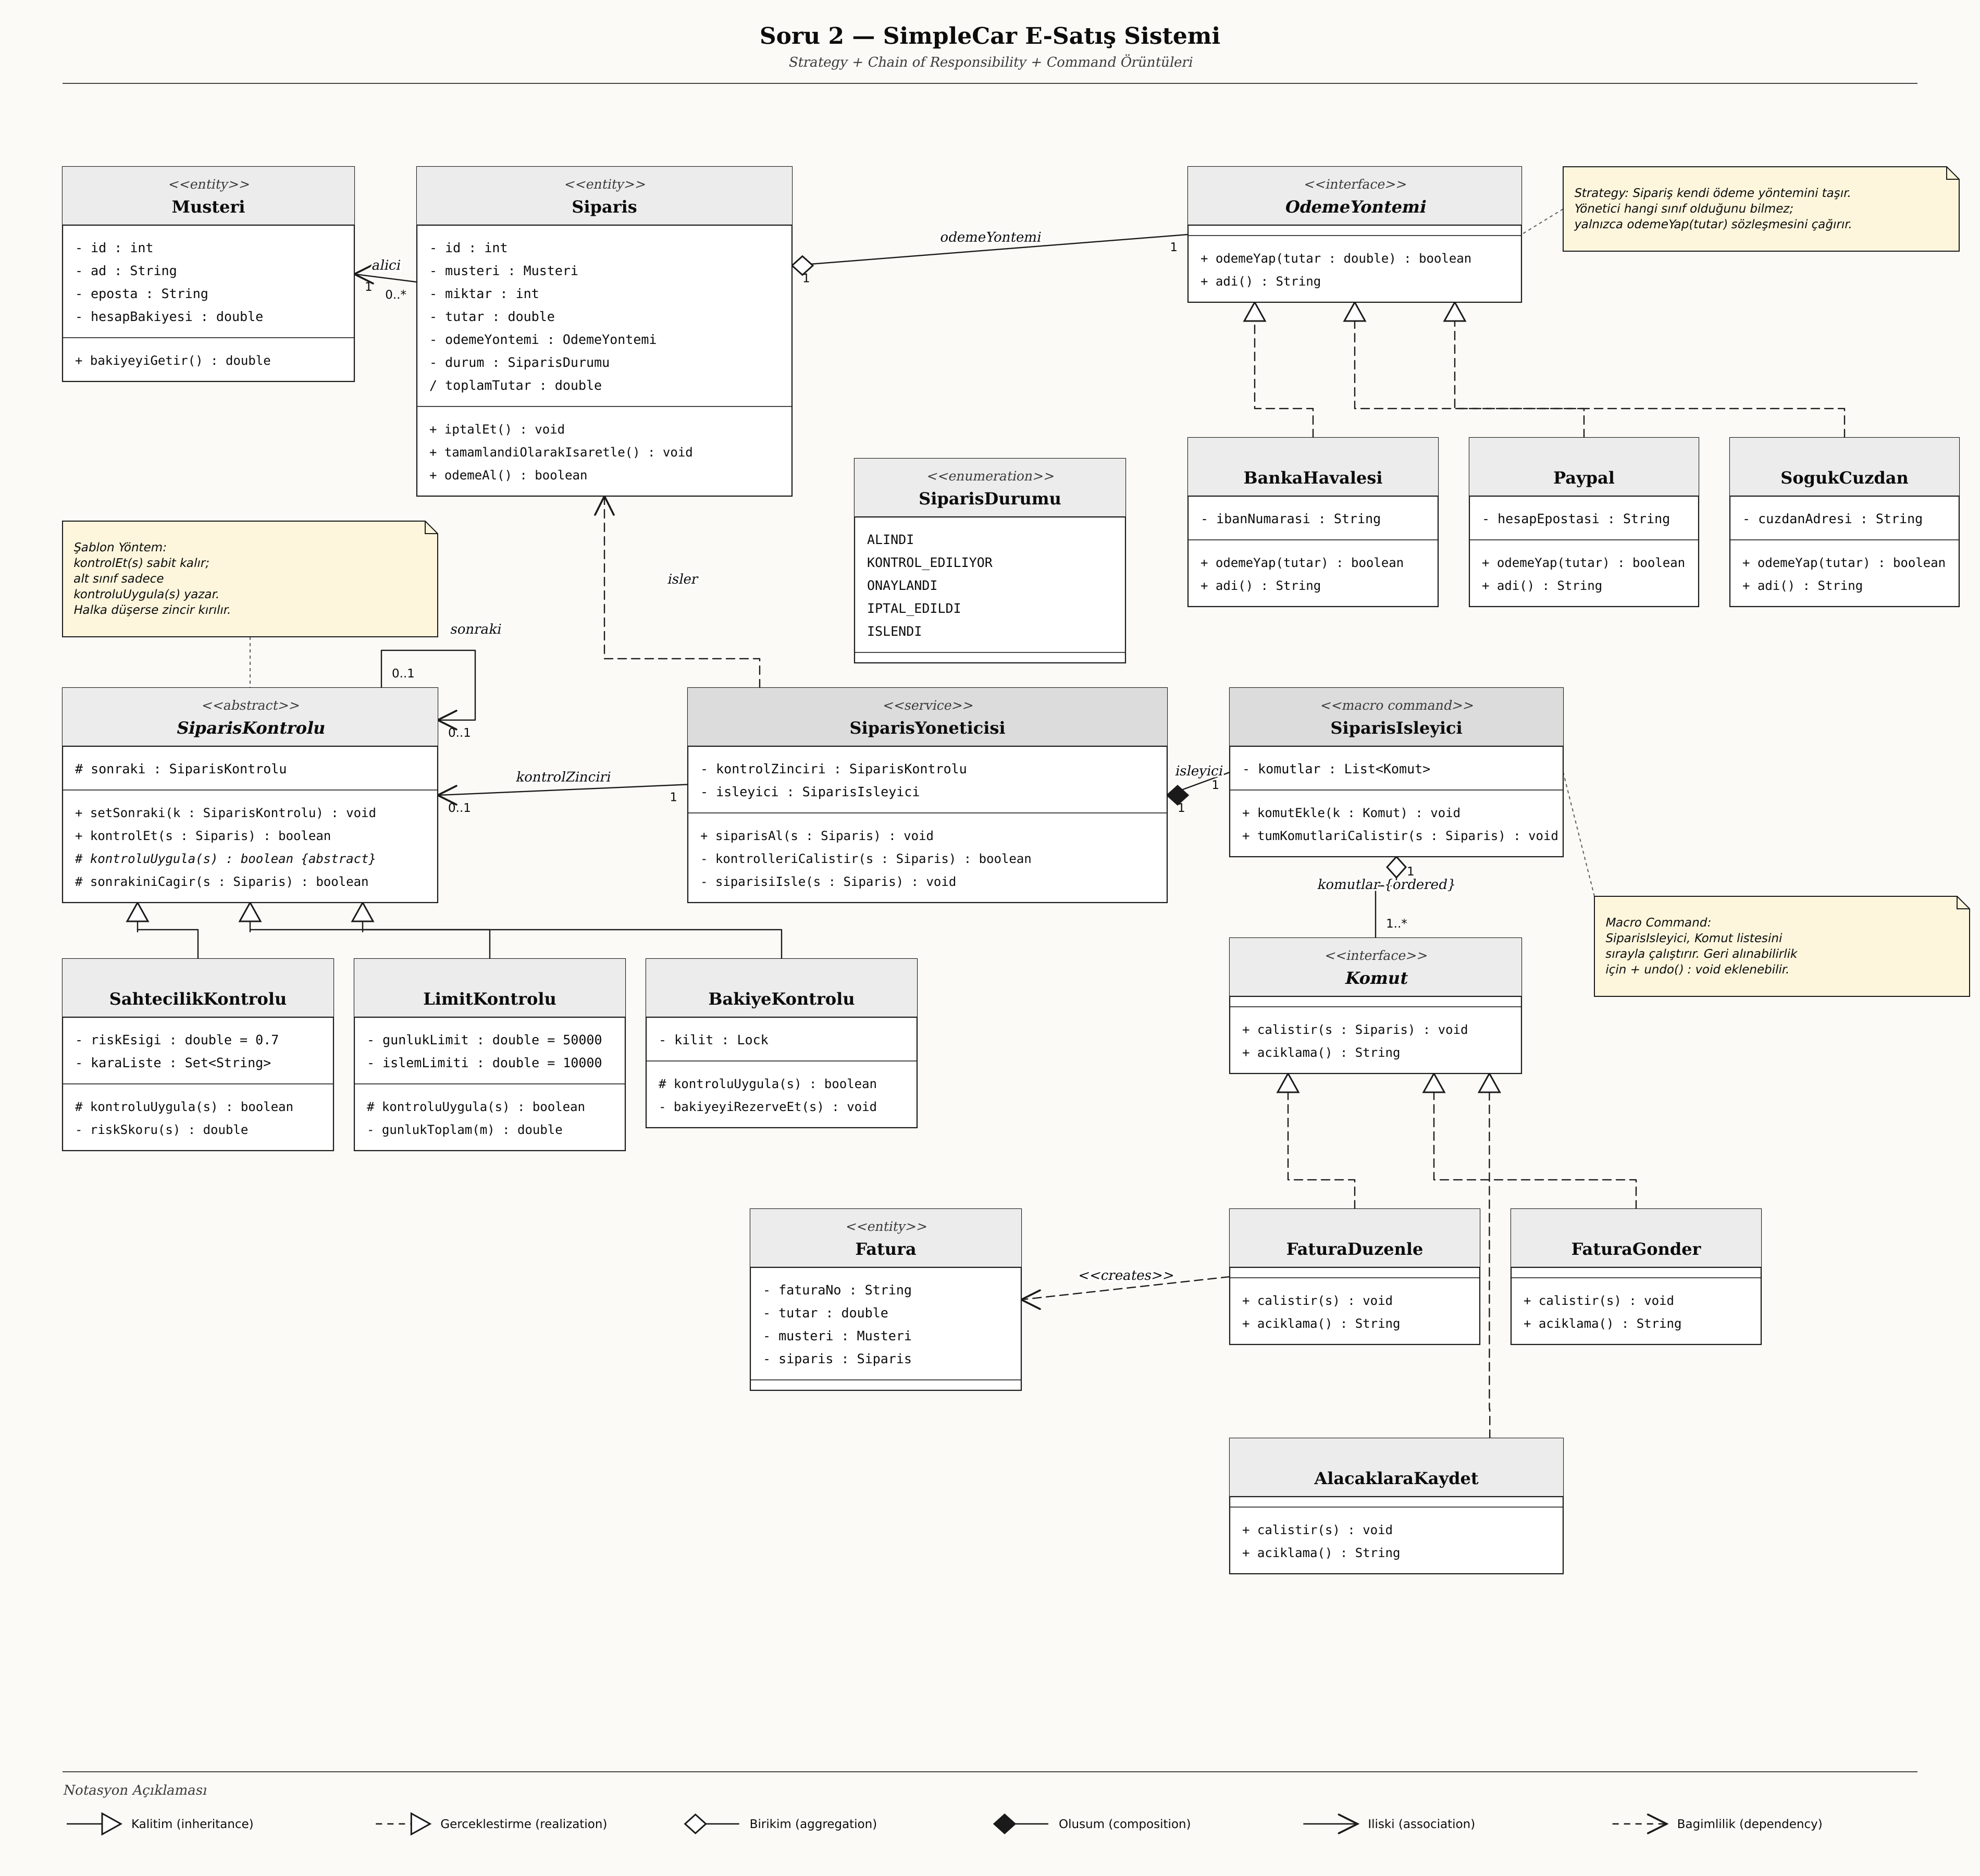
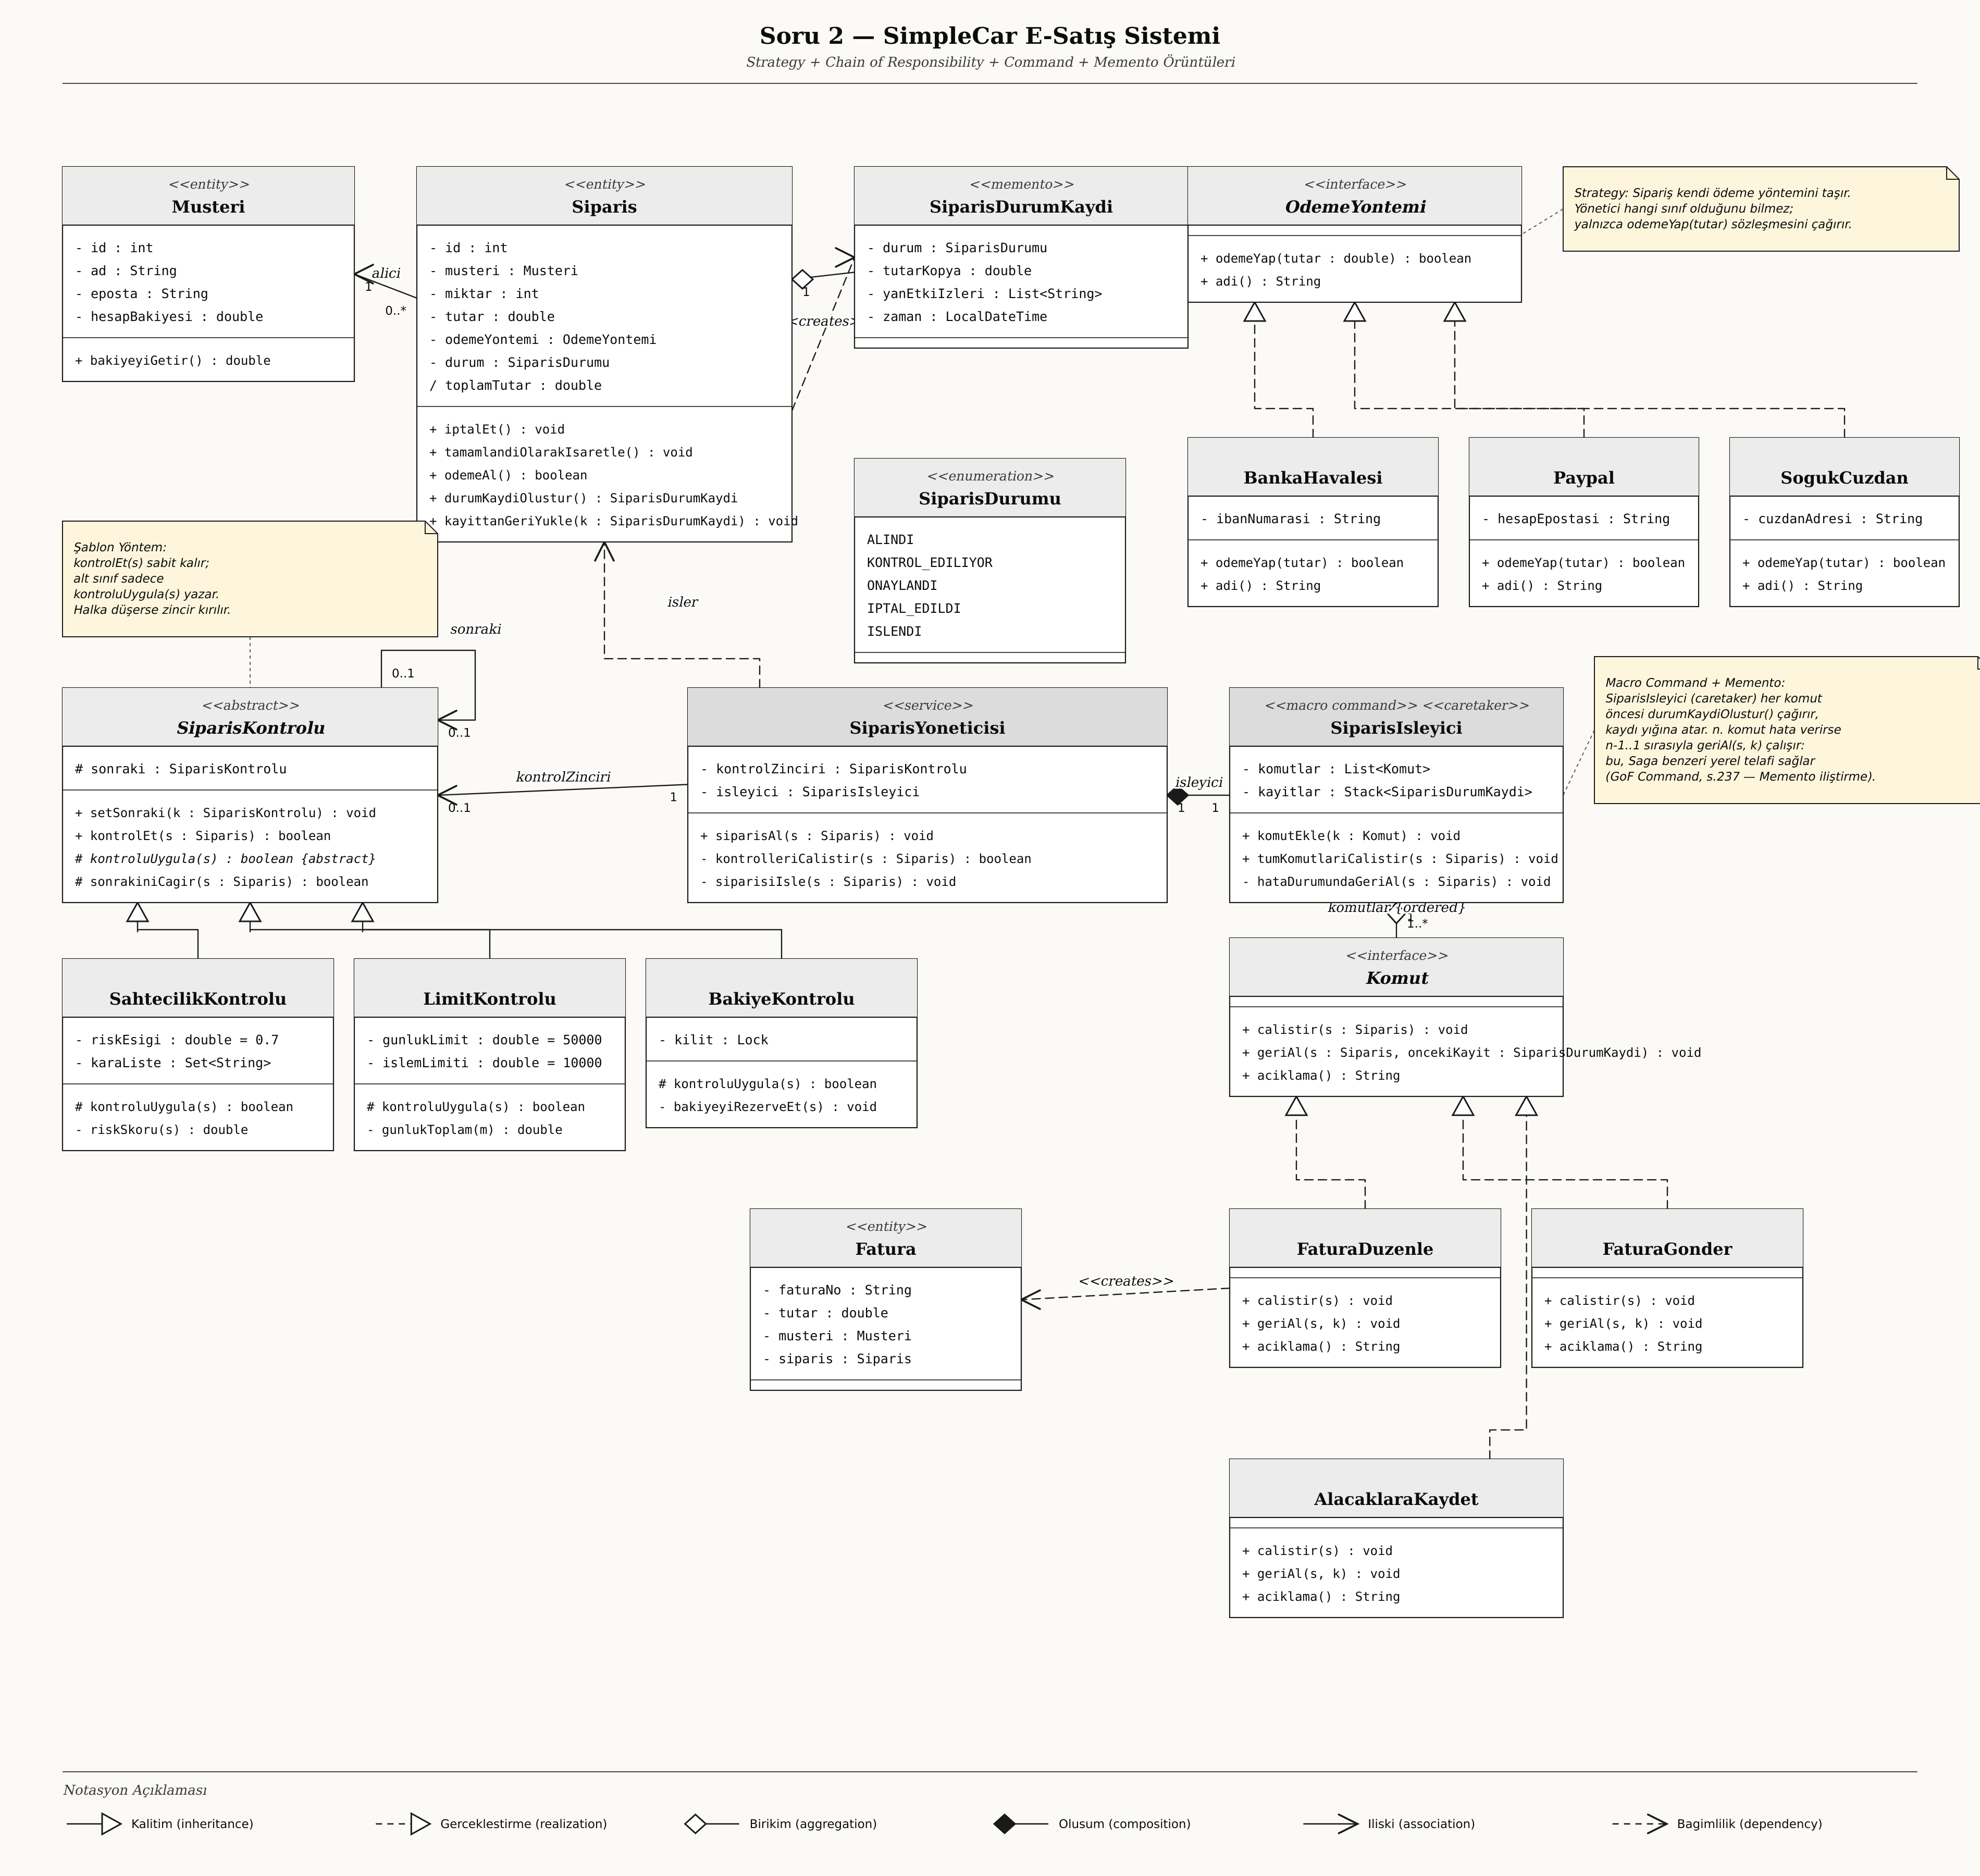
Add Memento pattern to the order processing system for error recovery
Integrates the Memento design pattern into the order processing system, enhancing error handling by allowing rollback to previous states. This involves updates to the diagram, data models, and documentation to reflect the new pattern's functionality.

Replit-Commit-Author: Agent
Replit-Commit-Session-Id: a43d8082-ef32-4153-8b57-a6c6b446bea9
Replit-Commit-Checkpoint-Type: full_checkpoint
Replit-Commit-Event-Id: 5d601a83-681e-4417-81e5-bca90596b5a1
Replit-Commit-Screenshot-Url: https://storage.googleapis.com/screenshot-production-us-central1/56c4c8e1-2682-4f4b-a144-bae14544250e/a43d8082-ef32-4153-8b57-a6c6b446bea9/P3z6l37
Replit-Helium-Checkpoint-Created: true

diff --git a/exam_solution/preview.html b/exam_solution/preview.html
@@ -74,6 +74,11 @@ ol li, ul li { margin-bottom: 6px; }
 .ref {
   font-size: 9pt; font-style: italic; color: #5a5a5a;
 }
+.ref-note {
+  font-size: 10pt; line-height: 1.5; color: #3a3a3a;
+  background: #fbf6ec; border-left: 2px solid #b8a878;
+  padding: 8pt 12pt; margin: 8pt 0 14pt;
+}
 
 .page-break { page-break-after: always; height: 0; }
 
@@ -367,7 +372,7 @@ pre.code {
       <div class="toc-title">İçindekiler</div>
       <ol>
         <li><span>Soru 1 &middot; Akıllı Ev Yönetim Sistemi</span><span class="dots"></span><span>State + Mediator + Observer</span></li>
-        <li><span>Soru 2 &middot; SimpleCar E-Satış Sistemi</span><span class="dots"></span><span>Strategy + CoR + Command</span></li>
+        <li><span>Soru 2 &middot; SimpleCar E-Satış Sistemi</span><span class="dots"></span><span>Strategy + CoR + Command + Memento</span></li>
       </ol>
     </div>
   </div>
@@ -583,7 +588,7 @@ pre.code {
   <header class="q-header">
     <span class="q-tag">Soru 2 &middot; 50 Puan</span>
     <h1>SimpleCar E-Satış Sistemi</h1>
-    <p class="q-sub">Strategy, Chain of Responsibility ve Command Örüntülerinin Birlikte Kullanımı</p>
+    <p class="q-sub">Strategy, Chain of Responsibility, Command ve Memento Örüntülerinin Birlikte Kullanımı</p>
   </header>
 
   <h2>2.1 Senaryonun Çözümlenmesi</h2>
@@ -631,8 +636,21 @@ pre.code {
         <td>(3) Sıralı işleme adımları: her adım kapsüllenmiş; sıra değiştirme, ek adım, geri-alma (undo) gibi
             ihtiyaçlar için esnek altyapı.</td>
       </tr>
+      <tr>
+        <td><b>Memento</b><br/><span class="ref">GoF, s.283</span></td>
+        <td><code>SiparisDurumKaydi</code> &laquo;memento&raquo;; <code>Siparis</code> &laquo;originator&raquo;;
+            <code>SiparisIsleyici</code> &laquo;caretaker&raquo; (kayıt yığını).</td>
+        <td>(3') Sıralı işleme ortasında oluşan hatalarda <em>yerel telafi</em>: yapılan adımlar ters sırayla
+            <code>geriAl(s, k)</code> ile çevrilir; siparişin iç alanları <em>Komut</em>'a açılmaz, kapsülleme
+            korunur.</td>
+      </tr>
     </tbody>
   </table>
+  <p class="ref-note">
+    <em>Tasarım notu.</em> GoF, Command bölümü s.237'de "<em>A command can use a memento to maintain the state required to reverse its effect</em>"
+    der. Burada bu kalıp, makro komutun <em>caretaker</em> rolünü üstlenmesiyle Saga'nın yerel (in-process) bir
+    sürümüne dönüştürülmüştür: dağıtık koordinasyon olmadan, tek transaksiyon sınırı içinde tutarlılık.
+  </p>
 
   <h2>2.3 Reddedilen Alternatifler</h2>
   <table class="design-table">
@@ -694,6 +712,11 @@ pre.code {
           <td>Aggregate root; tutar, miktar, seçilen <code>OdemeYontemi</code>, durum bilgilerini taşır.</td></tr>
       <tr><td><code>SiparisDurumu</code></td><td>&laquo;enumeration&raquo;</td>
           <td>Yaşam döngüsü sabitleri: ALINDI / KONTROL_EDILIYOR / ONAYLANDI / IPTAL_EDILDI / ISLENDI.</td></tr>
+      <tr><td><code>SiparisDurumKaydi</code></td><td>&laquo;memento&raquo;</td>
+          <td>Siparişin belirli bir andaki <em>kapsüllenmiş</em> kopyası: durum, tutar, yan etki izleri ve zaman
+              damgası. Sadece <code>Siparis</code> oluşturup okur; <code>SiparisIsleyici</code> kayıt yığınında
+              tutar (caretaker). Komutlar bu nesneye <em>opak</em> bakar &mdash; <em>narrow interface</em>
+              ilkesi.</td></tr>
       <tr><td><code>OdemeYontemi</code></td><td>&laquo;interface&raquo;</td>
           <td>Strategy sözleşmesi; <code>odemeYap(tutar)</code> imzası.</td></tr>
       <tr><td><code>BankaHavalesi</code> &middot; <code>Paypal</code> &middot; <code>SogukCuzdan</code></td>
@@ -735,7 +758,8 @@ pre.code {
         <code>FaturaDuzenle/FaturaGonder/AlacaklaraKaydet &mdash;..&#x25B7; Komut</code>.</li>
     <li><em>Inheritance.</em> Üç kontrol halkası <code>SiparisKontrolu</code>'ndan türer.</li>
     <li><em>Dependency.</em> <code>SiparisYoneticisi &mdash;..&gt; Siparis</code> (etiket: <em>isler</em>);
-        <code>FaturaDuzenle &mdash;..&gt; Fatura</code> (&laquo;creates&raquo;).</li>
+        <code>FaturaDuzenle &mdash;..&gt; Fatura</code> (&laquo;creates&raquo;);
+        <code>Siparis &mdash;..&gt; SiparisDurumKaydi</code> (&laquo;creates&raquo;).</li>
   </ul>
 
   
@@ -767,6 +791,10 @@ pre.code {
       <tr><td>Tüm kontrolleri tek seferde çalıştırıp <em>tüm</em> hataları toplama</td>
           <td>Yeni bir <code>HepsiniDogrulayanSiparisKontrolu</code> kompozit halkası yazmak; mevcut halkalar
               değişmeden kullanılır.</td></tr>
+      <tr><td>Sipariş işleme adımlarının ortasında bir adımın hata vermesi</td>
+          <td><b>Yok.</b> Tasarım, <code>SiparisDurumKaydi</code> (&laquo;memento&raquo;) + <code>SiparisIsleyici</code>
+              caretaker yığını ile bu durumu zaten karşılar: yapılan adımlar ters sırayla <code>geriAl(s, k)</code>
+              ile çevrilir, sipariş tutarlı bir önceki ana döner.</td></tr>
     </tbody>
   </table>
 